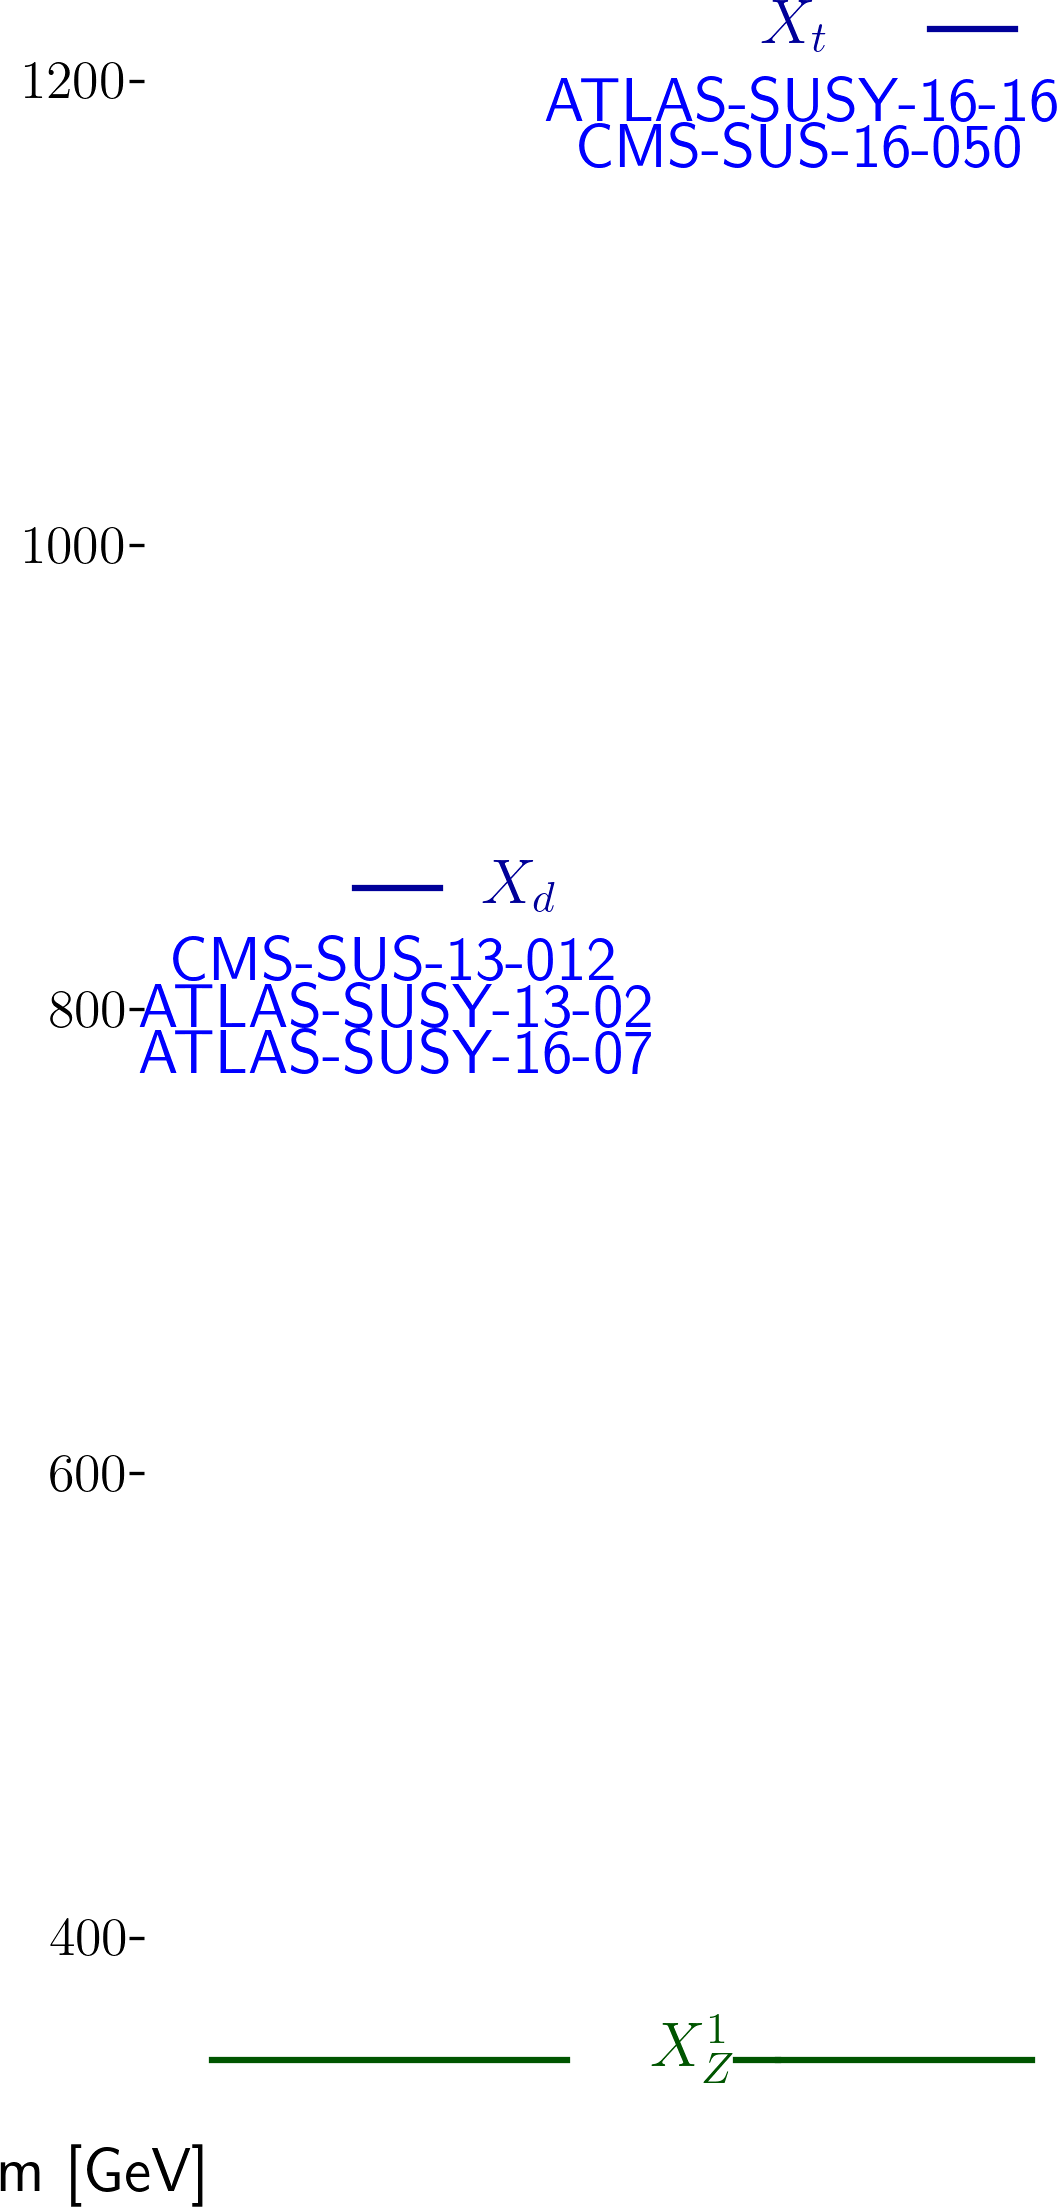
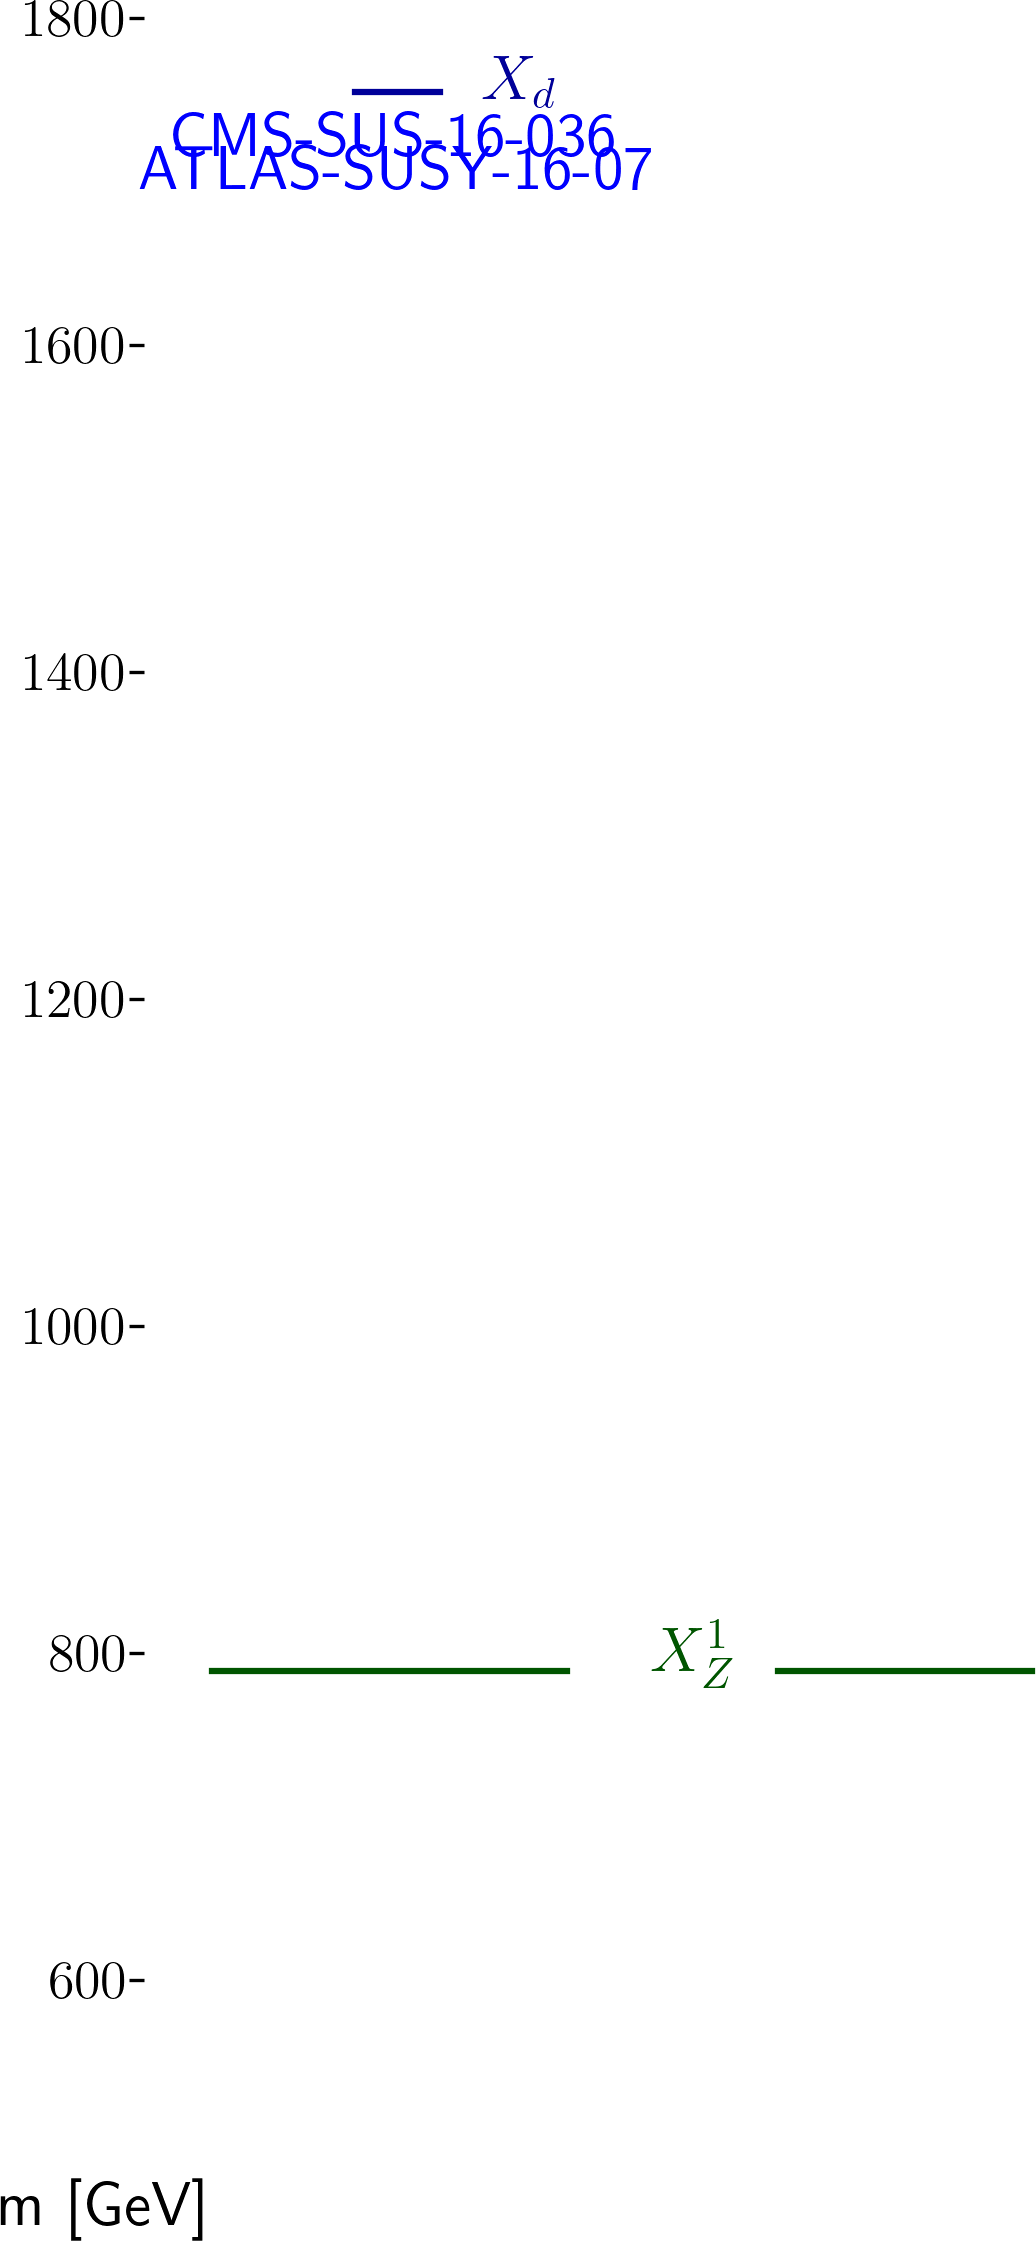
automated update by plotHiscore.py

diff --git a/protomodels/latest/index.html b/protomodels/latest/index.html
@@ -1,30 +1,27 @@
 <html>
 <body>
 <center>
-<table><td><h1>Current best protomodel: K=6.83</h1><td><img height=60px src=https://smodels.github.io/pics/banner.png></table>
+<table><td><h1>Current best protomodel: K=5.63</h1><td><img height=60px src=https://smodels.github.io/pics/banner.png></table>
 </center>
-<b><a href=./hiscore.slha>ProtoModel</a> <a href=./pmodel.py>(dict)</a> produced with <a href=https://smodels.github.io/docs/Validation124>database v1.2.4</a>, combination strategy <a href=./matrix_aggressive.png>aggressive</a> in walker 3 step 42.</b> K plots for: <a href=./M1000022.png?7429060>X<sub>Z</sub><sup>1</sup></a>, <a href=./M1000006.png?7429060>X<sub>t</sub></a>, <a href=./M1000001.png?7429060>X<sub>d</sub></a>. HPD plots for: <a href=./llhd1000006.png?7429060>X<sub>t</sub></a>, <a href=./llhd1000001.png?7429060>X<sub>d</sub></a>. SSM plots for: <a href=./ssm_-1000006_1000006.png?7429060>(x&#772;<sub>t</sub>,X<sub>t</sub>)</a><br>
+<b><a href=./hiscore.slha>ProtoModel</a> <a href=./pmodel.py>(dict)</a> produced with <a href=https://smodels.github.io/docs/Validation124signal41>database v1.2.4signal41</a>, combination strategy <a href=./matrix_aggressive.png>aggressive</a> in walker 15 step 537.</b> K plots for: <a href=./M1000022.png?7448109>X<sub>Z</sub><sup>1</sup></a>, <a href=./M1000001.png?7448109>X<sub>d</sub></a>. HPD plots for: <a href=./llhd1000001.png?7448109>X<sub>d</sub></a>. SSM plots for: <br>
 <table width=80%>
 <tr><td>
-<br><b>18 predictions available. Highest r values are:</b><br><ul>
-<li><a href=http://cms-results.web.cern.ch/cms-results/public-results/publications/SUS-19-006/index.html>CMS-SUS-19-006</a>:T2 r=1.30, r<sub>exp</sub>=1.13<br>
-<li><a href=http://cms-results.web.cern.ch/cms-results/public-results/publications/SUS-19-006/index.html>CMS-SUS-19-006</a>:T2tt r=1.21, r<sub>exp</sub>=1.17<br>
-<li><a href=http://cms-results.web.cern.ch/cms-results/public-results/publications/SUS-16-033/index.html>CMS-SUS-16-033</a>:T2 r=1.19, r<sub>exp</sub>=0.85<br>
-<li><a href=http://cms-results.web.cern.ch/cms-results/public-results/publications/SUS-16-036/index.html>CMS-SUS-16-036</a>:T2 r=0.87, r<sub>exp</sub>=0.75<br>
-<li><a href=https://atlas.web.cern.ch/Atlas/GROUPS/PHYSICS/PAPERS/SUSY-2016-15/>ATLAS-SUSY-2016-15</a>:T2tt r=0.59, r<sub>exp</sub>=N/A<br>
+<br><b>5 predictions available. Highest r values are:</b><br><ul>
+<li><a href=http://cms-results.web.cern.ch/cms-results/public-results/publications/SUS-19-006/index.html>CMS-SUS-19-006</a>:T2 r=1.24, r<sub>exp</sub>=N/A<br>
+<li><a href=https://atlas.web.cern.ch/Atlas/GROUPS/PHYSICS/PAPERS/SUSY-2016-07/>ATLAS-SUSY-2016-07</a>:T2 r=1.01, r<sub>exp</sub>=N/A<br>
+<li><a href=http://cms-results.web.cern.ch/cms-results/public-results/publications/SUS-16-036/index.html>CMS-SUS-16-036</a>:T2 r=0.61, r<sub>exp</sub>=N/A<br>
+<li><a href=http://cms-results.web.cern.ch/cms-results/public-results/publications/SUS-16-033/index.html>CMS-SUS-16-033</a>:T2 r=0.47, r<sub>exp</sub>=N/A<br>
+<li><a href=http://cms-results.web.cern.ch/cms-results/public-results/publications/SUS-16-033/index.html>CMS-SUS-16-033</a>:T2 r=0.31, r<sub>exp</sub>=N/A<br>
 </ul>
 <td><br><b>K values without analyses: (contribution)</b><br>
 <ul>
-<li> <a href=https://atlas.web.cern.ch/Atlas/GROUPS/PHYSICS/PAPERS/SUSY-2013-02/>ATLAS-SUSY-2013-02</a>: 7.11 (-3%)
-<li> <a href=https://twiki.cern.ch/twiki/bin/view/CMSPublic/PhysicsResultsSUS13012>CMS-SUS-13-012</a>: 6.44 (4%)
-<li> <a href=https://atlas.web.cern.ch/Atlas/GROUPS/PHYSICS/PAPERS/SUSY-2016-16/>ATLAS-SUSY-2016-16</a>: 4.53 (27%)
-<li> <a href=http://cms-results.web.cern.ch/cms-results/public-results/publications/SUS-16-050/index.html>CMS-SUS-16-050</a>: 4.35 (29%)
-<li> <a href=https://atlas.web.cern.ch/Atlas/GROUPS/PHYSICS/PAPERS/SUSY-2016-07/>ATLAS-SUSY-2016-07</a>: 3.09 (43%)
-<td><img width=600px src=./texdoc.png?1600429060>
-<br><font size=-1>Last updated: Fri Sep 18 13:37:40 2020</font>
+<li> <a href=https://atlas.web.cern.ch/Atlas/GROUPS/PHYSICS/PAPERS/SUSY-2016-07/>ATLAS-SUSY-2016-07</a>: 4.96 (7%)
+<li> <a href=http://cms-results.web.cern.ch/cms-results/public-results/publications/SUS-16-036/index.html>CMS-SUS-16-036</a>: -2.64 (93%)
+<td><img width=600px src=./texdoc.png?1600448109>
+<br><font size=-1>Last updated: Fri Sep 18 18:55:09 2020</font>
 </table><table style="width:80%">
-<td width=45%><img height=580px src=./ruler.png?1600429060><td width=55%><img height=380px src=./decays.png?1600429060>
-<font size=-3><iframe type="text/html" height="220px" width="100%s" frameborder="0" src="./rawnumbers.html?1600429060"></iframe></font>
+<td width=45%><img height=580px src=./ruler.png?1600448109><td width=55%><img height=380px src=./decays.png?1600448109>
+<font size=-3><iframe type="text/html" height="220px" width="100%s" frameborder="0" src="./rawnumbers.html?1600448109"></iframe></font>
 </table>
 </body>
 </html>

diff --git a/protomodels/latest/rawnumbers.html b/protomodels/latest/rawnumbers.html
@@ -1,9 +1,6 @@
 <table>
-<tr><th>Analysis Name</th><th>Type</th><th>Dataset</th><th>Topos</th><th>Observed</th><th>Expected</th><th>Approx &sigma;</th><th>Particles</th>
+<tr><th>Analysis Name</th><th>Type</th><th>Dataset</th><th>Topos</th><th>Observed</th><th>Expected</th><th>Approx &sigma;</th><th>Particles</th><th>Signal</th>
 </tr>
-<tr><td><a href=https://atlas.web.cern.ch/Atlas/GROUPS/PHYSICS/PAPERS/SUSY-2013-02/>ATLAS-SUSY-2013-02</a></td><td>em</td> <td>SR6jtp</td><td>T2</td><td>6</td><td>4.9 +/- 1.6</td><td style="text-align:right">0.4 &sigma;</td><td style="text-align:right">X<sub>d</sub></td></tr>
-<tr><td><a href=https://atlas.web.cern.ch/Atlas/GROUPS/PHYSICS/PAPERS/SUSY-2016-07/>ATLAS-SUSY-2016-07</a></td><td>em</td> <td>2j_Meff_1200</td><td>T2</td><td>611</td><td>526 +/- 31</td><td style="text-align:right">2.2 &sigma;</td><td style="text-align:right">X<sub>d</sub></td></tr>
-<tr><td><a href=https://atlas.web.cern.ch/Atlas/GROUPS/PHYSICS/PAPERS/SUSY-2016-16/>ATLAS-SUSY-2016-16</a></td><td>em</td> <td>tN_high</td><td>T2tt</td><td>8</td><td>3.8 +/- 1</td><td style="text-align:right">1.9 &sigma;</td><td style="text-align:right">X<sub>t</sub></td></tr>
-<tr><td><a href=https://twiki.cern.ch/twiki/bin/view/CMSPublic/PhysicsResultsSUS13012>CMS-SUS-13-012</a></td><td>ul</td> <td>-</td><td>T2</td><td> 28.7 fb </td><td> 17.8 fb</td><td style="text-align:right">1.2 &sigma;</td><td style="text-align:right">X<sub>d</sub></td></tr>
-<tr><td><a href=http://cms-results.web.cern.ch/cms-results/public-results/publications/SUS-16-050/index.html>CMS-SUS-16-050</a></td><td>ul</td> <td>-</td><td>T2tt</td><td> 4.8 fb </td><td> 2.7 fb</td><td style="text-align:right">1.5 &sigma;</td><td style="text-align:right">X<sub>t</sub></td></tr>
+<tr><td><a href=https://atlas.web.cern.ch/Atlas/GROUPS/PHYSICS/PAPERS/SUSY-2016-07/>ATLAS-SUSY-2016-07</a></td><td>em</td> <td>2j_Meff_1200</td><td>T2</td><td>550</td><td>526 +/- 31</td><td style="text-align:right">0.6 &sigma;</td><td style="text-align:right">X<sub>d</sub></td><td style="text-align:right">56</td></tr>
+<tr><td><a href=http://cms-results.web.cern.ch/cms-results/public-results/publications/SUS-16-036/index.html>CMS-SUS-16-036</a></td><td>ul</td> <td>-</td><td>T2</td><td> 5.8 fb </td><td> 2.6 fb</td><td style="text-align:right">2.4 &sigma;</td><td style="text-align:right">X<sub>d</sub></td><td style="text-align:right">20.90 fb</td></tr>
 </table>

diff --git a/protomodels/latest/pmodel.py b/protomodels/latest/pmodel.py
@@ -1,1 +1,1 @@
-{'masses': {1000022: 337.359, 1000006: 1212.288, 1000001: 841.974}, 'ssmultipliers': {(1000022, 1000022): 4.455, (1000006, 1000006): 1.807, (-1000006, 1000006): 1.807, (-1000006, -1000006): 1.807, (1000006, 1000022): 1.807, (-1000006, 1000022): 1.807, (1000001, 1000001): 0.348, (-1000001, 1000001): 1.055, (-1000001, -1000001): 1.055, (1000001, 1000022): 1.055, (-1000001, 1000022): 1.055, (1000001, 1000006): 1.055, (-1000001, 1000006): 1.055, (-1000006, 1000001): 1.055, (-1000006, -1000001): 1.055}, 'decays': {1000022: {}, 1000006: {1000022: 1.0}, 1000001: {1000022: 1.0}}, 'timestamp': 'Fri Sep 18 13:37:33 2020', 'Z': 3.222, 'K': 6.831, 'step': 42, 'codever': '1.0', 'dbver': '1.2.4'}
+{'masses': {1000022: 778.762, 1000001: 1745.136}, 'ssmultipliers': {(1000022, 1000022): 1.156, (1000001, 1000001): 48.176, (-1000001, 1000001): 49.004, (-1000001, -1000001): 49.004, (1000001, 1000022): 49.004, (-1000001, 1000022): 49.004}, 'decays': {1000022: {}, 1000001: {1000022: 1.0}}, 'timestamp': 'Fri Sep 18 18:55:04 2020', 'Z': 2.815, 'K': 5.627, 'step': 537, 'codever': '1.0', 'dbver': '1.2.4signal41'}
